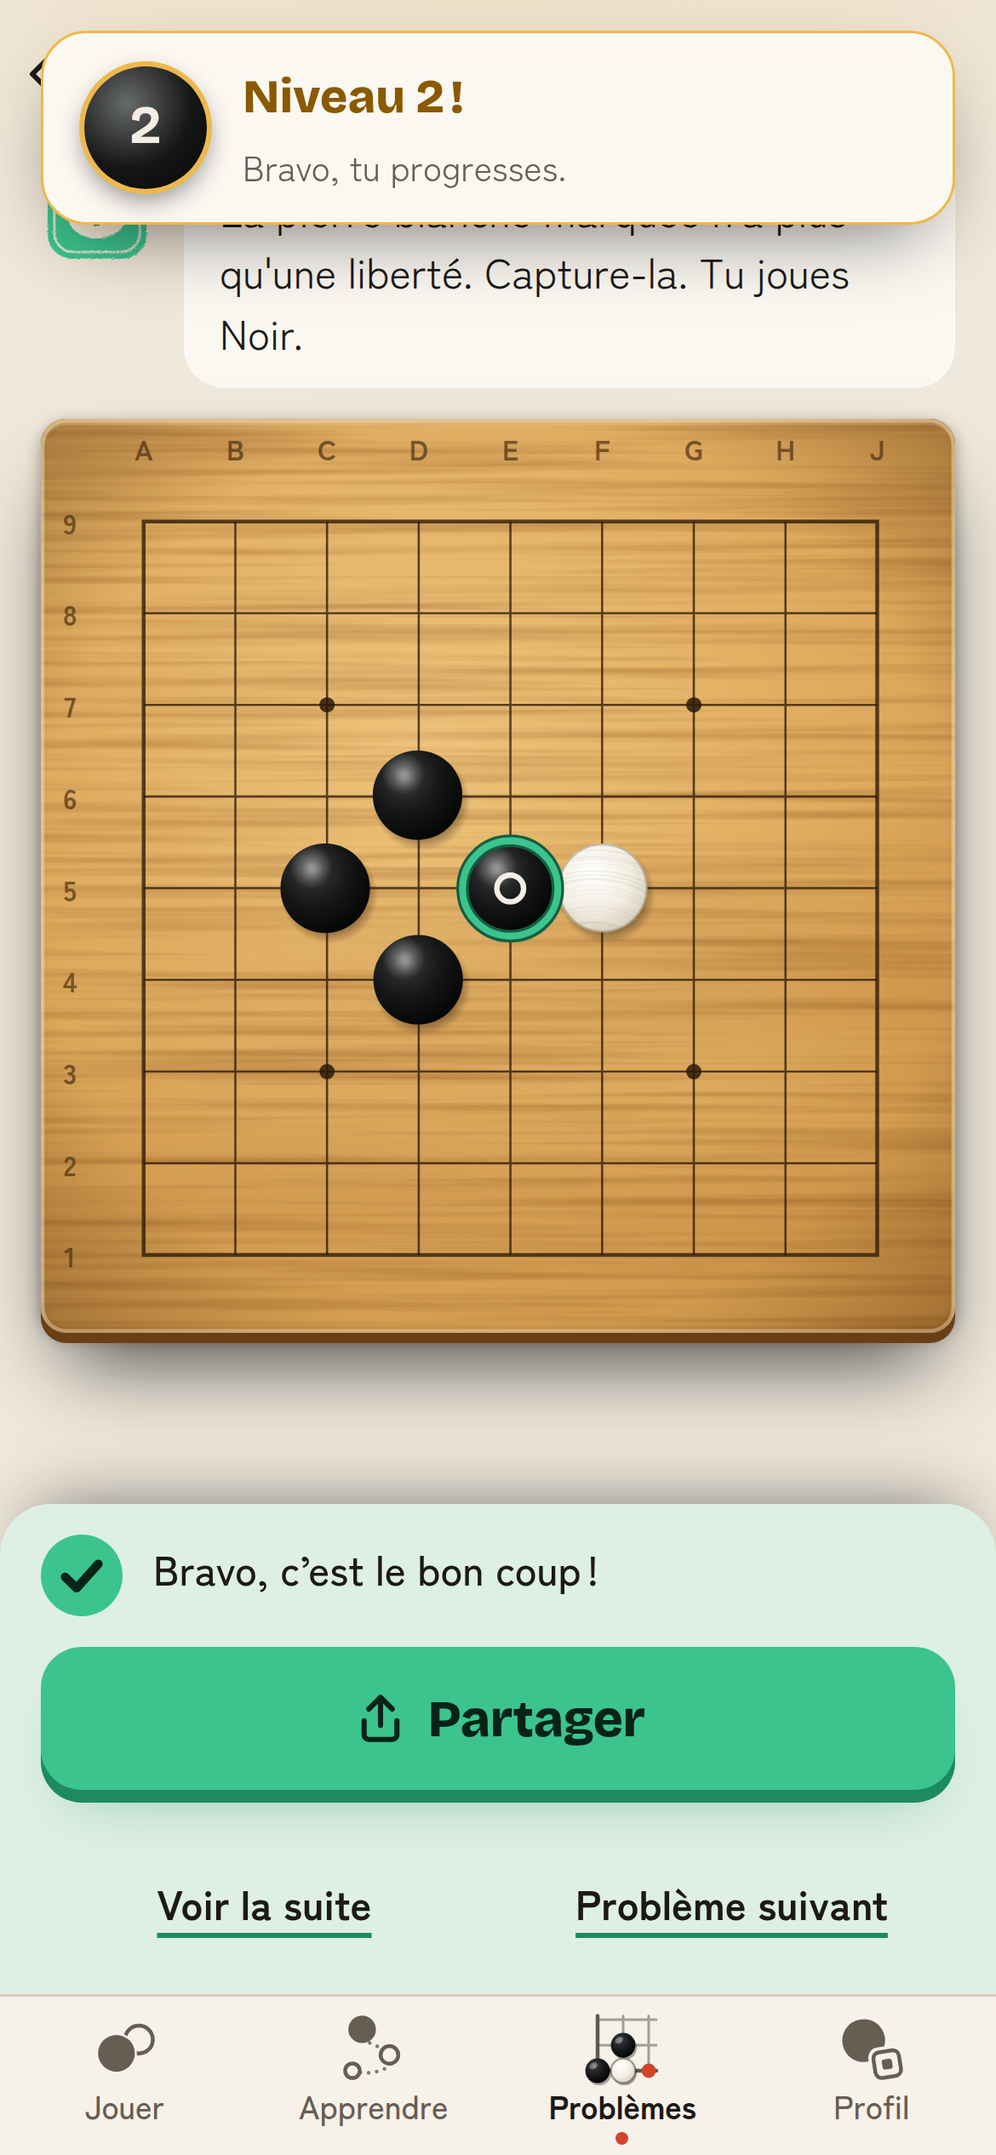
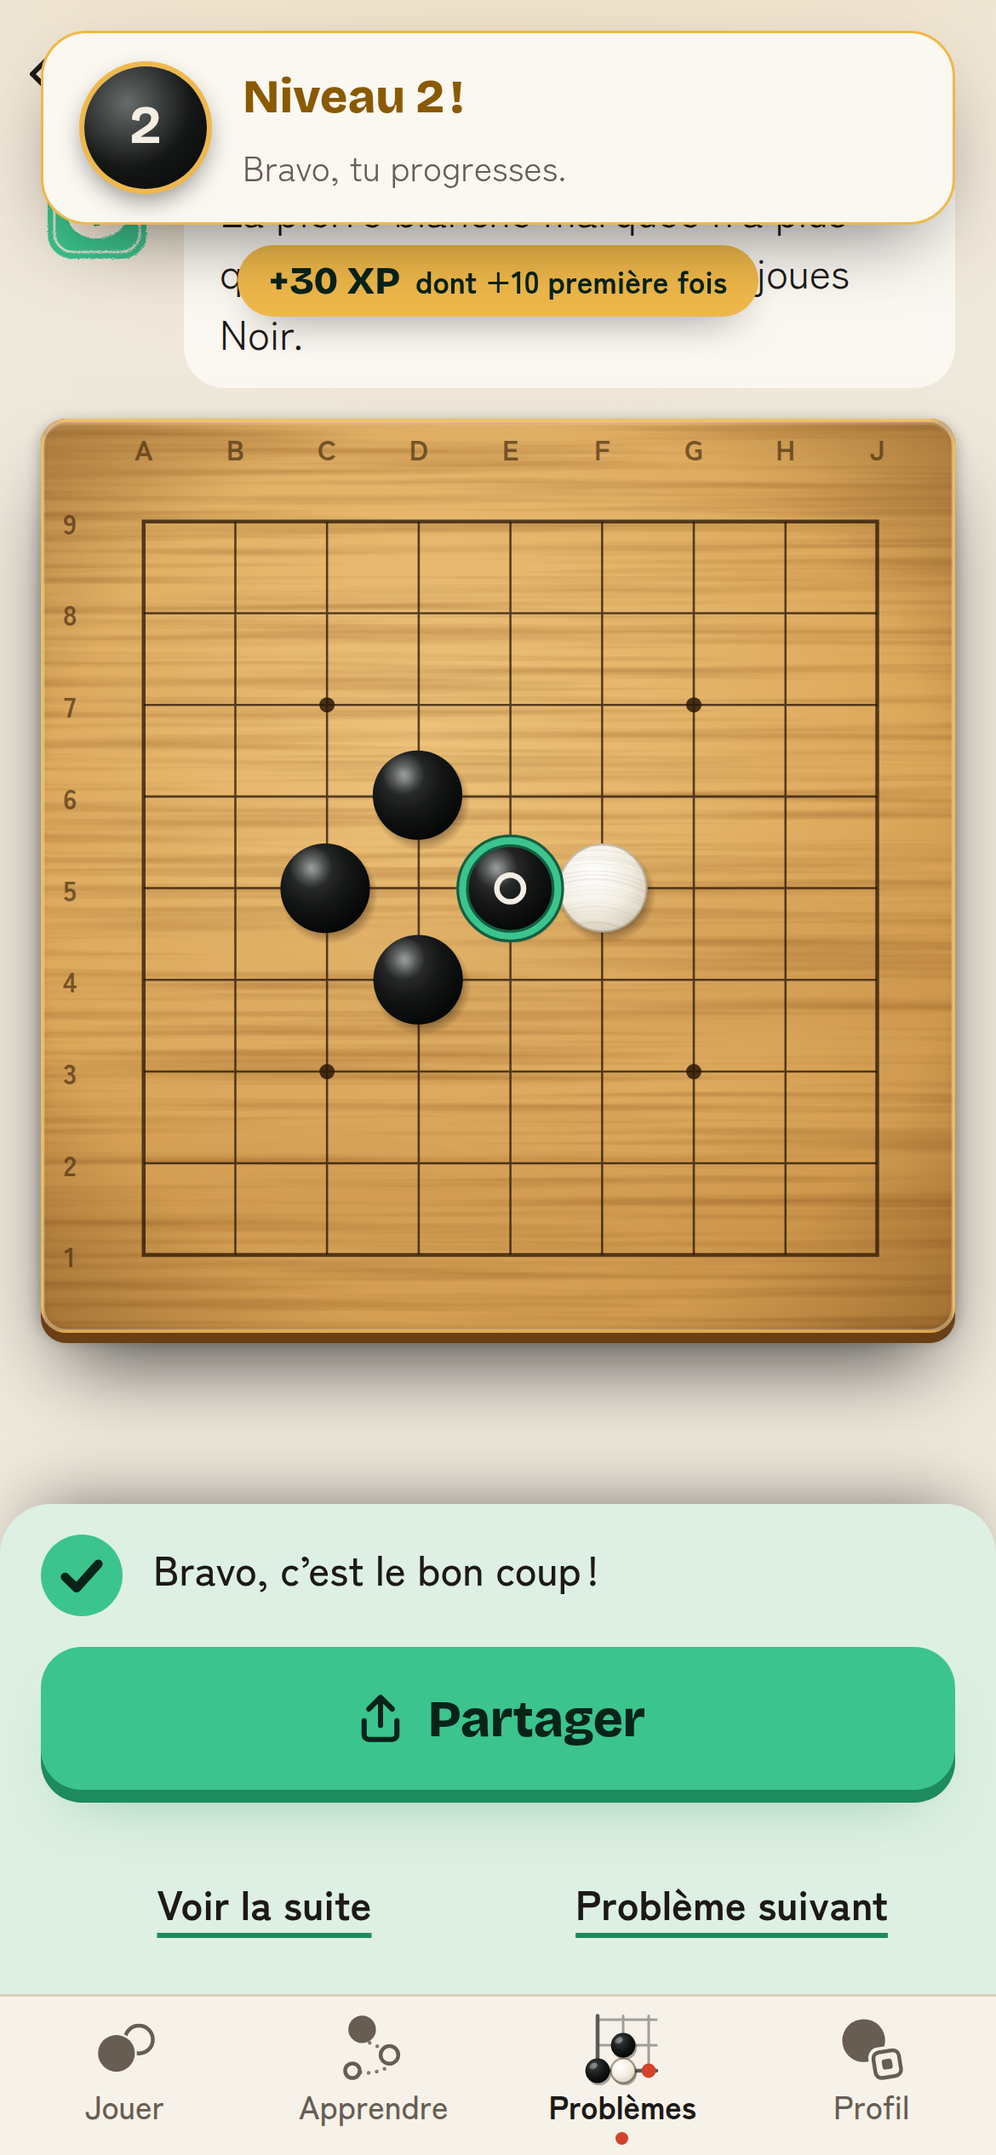
#162 XP visible : pastille « +N XP » et bonus « première fois » (#172)
- src/ui/PastilleXp.tsx : pastille or réutilisable et annonce globale (AnnonceXp),
  abonnée à abonnerXp. Entrée 220 ms (transform et opacité), rien avec les
  mouvements réduits ou les célébrations coupées. Ne capte aucun toucher,
  se range sous la carte « Niveau N ! » quand un niveau est franchi.
- src/app/xp.ts : bonus première partie +20, première leçon +20, premier
  problème +10 (Go du jour compris), une fois par appareil (go.xp.premieres.v1).
  Parcours type partie perdue + leçon + 2 problèmes : 115 XP, niveau 2.
- Tests Vitest (parcours type, ordre quelconque, stockage illisible) et e2e xp.spec
  (pastille, position sous la célébration, capture sombre).
- App.tsx : une ligne de montage. Game, Learn, Puzzles non modifiés.

Claude-Session: https://claude.ai/code/session_01MBh4E5pGWe9HRzjpTV2rVx

Changed region(s): [[0.2462, 0.0936, 0.7692, 0.156]]

diff --git a/src/app/xp.test.ts b/src/app/xp.test.ts
@@ -7,7 +7,7 @@ vi.stubGlobal('localStorage', { getItem: (k: string) => memoire.get(k) ?? null, 
 vi.mock('../data/analytics', async orig => ({ ...(await orig<typeof import('../data/analytics')>()), track: (...a: unknown[]) => track(...a) }));
 
 const xp = await import('./xp');
-const { GAINS, appliquer, cout, seuil, niveauDe, prochaineRecompense, recompenseDuNiveau, gagnerXp, lireXp, envoyerAgregat, abonnerXp, XP_KEY, PLAFOND } = xp;
+const { GAINS, BONUS_PREMIERE, PREMIERES_KEY, lirePremieres, appliquer, cout, seuil, niveauDe, prochaineRecompense, recompenseDuNiveau, gagnerXp, lireXp, envoyerAgregat, abonnerXp, XP_KEY, PLAFOND } = xp;
 
 describe('courbe des niveaux', () => {
   it('le niveau 2 arrive à 100 XP, puis environ +25 % par niveau', () => {
@@ -69,6 +69,7 @@ describe('gagnerXp (appareil)', () => {
 
   it('crédite l’appareil, prévient les écouteurs et envoie niveau_atteint au passage', () => {
     localStorage.setItem(XP_KEY, '95');
+    localStorage.setItem(PREMIERES_KEY, JSON.stringify(['lecon'])); // bonus déjà touché : gain nu
     const vus: number[] = [];
     const fin = abonnerXp(g => vus.push(g.apres));
     gagnerXp('lecon');
@@ -79,6 +80,7 @@ describe('gagnerXp (appareil)', () => {
   });
 
   it('xp_gagne est agrégé : plusieurs gains rapprochés, un seul événement', () => {
+    localStorage.setItem(PREMIERES_KEY, JSON.stringify(['probleme']));
     gagnerXp('probleme');
     gagnerXp('goDuJour');
     expect(track).not.toHaveBeenCalledWith('xp_gagne', expect.anything());
@@ -86,5 +88,66 @@ describe('gagnerXp (appareil)', () => {
     const envois = track.mock.calls.filter(c => c[0] === 'xp_gagne');
     expect(envois).toHaveLength(1);
     expect(envois[0][1]).toMatchObject({ points: 30, gains: 2, sources: 'goDuJour,probleme', xp_total: 30, niveau: 1 });
+  });
+});
+
+// Issue #162 : bonus « première fois » et niveau 2 dans la première session.
+describe('bonus première fois', () => {
+  beforeEach(() => { localStorage.clear(); track.mockClear(); vi.useFakeTimers(); });
+  afterEach(() => { envoyerAgregat(); vi.useRealTimers(); });
+
+  it('appliquer ajoute le bonus de la catégorie seulement pour une première fois', () => {
+    expect(appliquer(0, 'lecon', true)).toMatchObject({ points: 30 + BONUS_PREMIERE.lecon, bonus: BONUS_PREMIERE.lecon });
+    expect(appliquer(0, 'lecon')).toMatchObject({ points: 30, bonus: 0 });
+    // Le Go du jour est un problème, une victoire est une partie.
+    expect(appliquer(0, 'goDuJour', true).bonus).toBe(BONUS_PREMIERE.probleme);
+    expect(appliquer(0, 'victoire', true).bonus).toBe(BONUS_PREMIERE.partie);
+  });
+
+  it('chaque bonus ne se gagne qu’une fois par appareil', () => {
+    expect(gagnerXp('probleme').bonus).toBe(BONUS_PREMIERE.probleme);
+    expect(gagnerXp('goDuJour').bonus).toBe(0);
+    expect(gagnerXp('victoire').bonus).toBe(BONUS_PREMIERE.partie);
+    expect(gagnerXp('partie').bonus).toBe(0);
+    expect([...lirePremieres()].sort()).toEqual(['partie', 'probleme']);
+  });
+
+  it('un stockage illisible ne casse rien : le bonus reste offert', () => {
+    localStorage.setItem(PREMIERES_KEY, '{pas du json');
+    expect(lirePremieres().size).toBe(0);
+    localStorage.setItem(PREMIERES_KEY, JSON.stringify(['partie', 'triche', 3]));
+    expect([...lirePremieres()]).toEqual(['partie']);
+  });
+
+  // Parcours type de l'analyse UX (#154), avec des durées prudentes pour un débutant.
+  const PARCOURS: { source: 'partie' | 'lecon' | 'probleme'; minutes: number }[] = [
+    { source: 'partie', minutes: 5 }, // une partie 9 × 9 contre Pomme, perdue : pas de bonus de victoire
+    { source: 'lecon', minutes: 2.5 },
+    { source: 'probleme', minutes: 1 },
+    { source: 'probleme', minutes: 1 },
+  ];
+
+  it('parcours type (partie perdue, leçon, 2 problèmes) : le niveau 2 arrive avant 10 minutes', () => {
+    let minutes = 0, niveau2: number | null = null;
+    for (const etape of PARCOURS) {
+      minutes += etape.minutes;
+      const g = gagnerXp(etape.source);
+      if (niveau2 === null && g.niveauApres >= 2) niveau2 = minutes;
+    }
+    expect(minutes).toBeLessThanOrEqual(10);
+    expect(niveau2).not.toBeNull();
+    expect(niveau2!).toBeLessThanOrEqual(10);
+    expect(niveauDe(lireXp()).niveau).toBe(2);
+    expect(track).toHaveBeenCalledWith('niveau_atteint', expect.objectContaining({ niveau: 2 }));
+    // Sans les bonus, le même parcours restait sous le niveau 2 (65 XP sur 100) : c'est bien le bonus qui compte.
+    expect(PARCOURS.reduce((s, e) => s + GAINS[e.source], 0)).toBeLessThan(100);
+  });
+
+  it('dans n’importe quel ordre, le parcours type atteint le niveau 2, pas le niveau 3', () => {
+    for (const ordre of [[0, 1, 2, 3], [1, 2, 3, 0], [2, 3, 1, 0], [3, 0, 2, 1]]) {
+      localStorage.clear();
+      for (const i of ordre) gagnerXp(PARCOURS[i].source);
+      expect(niveauDe(lireXp()).niveau).toBe(2);
+    }
   });
 });

diff --git a/src/app/xp.ts b/src/app/xp.ts
@@ -62,12 +62,31 @@ export const niveauRequis = (id: string) => RECOMPENSES.find(r => r.id === id)?.
 export const themeDebloque = (id: string, niveau: number) => niveau >= niveauRequis(id);
 export const recompensesDebloquees = (niveau: number) => RECOMPENSES.filter(r => r.niveau <= niveau);
 
-export interface Gain { source: SourceXp; points: number; avant: number; apres: number; niveauAvant: number; niveauApres: number }
+/**
+ * Bonus « première fois » (issue #162) : progrès offert (Nunes et Drèze, 2006). Sans lui, un parcours type de
+ * 10 minutes (une partie perdue, une leçon, 2 problèmes) donnait 65 XP sur 100. Avec lui : 115, le niveau 2 tombe
+ * pendant la première session. Chaque bonus ne se gagne qu'une fois par appareil.
+ */
+export type Premiere = 'partie' | 'lecon' | 'probleme';
+export const BONUS_PREMIERE: Record<Premiere, number> = { partie: 20, lecon: 20, probleme: 10 };
+/** Le Go du jour est un problème ; une victoire est une partie. */
+export const premiereDe = (source: SourceXp): Premiere =>
+  source === 'goDuJour' ? 'probleme' : source === 'victoire' ? 'partie' : source;
 
-/** Calcul pur d'un gain : jamais négatif. */
-export function appliquer(xp: number, source: SourceXp): Gain {
-  const avant = Math.max(0, Math.floor(xp) || 0), points = GAINS[source], apres = avant + points;
-  return { source, points, avant, apres, niveauAvant: niveauDe(avant).niveau, niveauApres: niveauDe(apres).niveau };
+export interface Gain {
+  source: SourceXp;
+  /** XP gagnés au total, bonus compris. */
+  points: number;
+  /** Part du bonus « première fois » dans `points` (0 sinon). */
+  bonus: number;
+  avant: number; apres: number; niveauAvant: number; niveauApres: number;
+}
+
+/** Calcul pur d'un gain : jamais négatif. `premiere` : c'est la première fois pour cette catégorie. */
+export function appliquer(xp: number, source: SourceXp, premiere = false): Gain {
+  const avant = Math.max(0, Math.floor(xp) || 0), bonus = premiere ? BONUS_PREMIERE[premiereDe(source)] : 0;
+  const points = GAINS[source] + bonus, apres = avant + points;
+  return { source, points, bonus, avant, apres, niveauAvant: niveauDe(avant).niveau, niveauApres: niveauDe(apres).niveau };
 }
 
 // --- Stockage sur l'appareil et diffusion aux écrans ---
@@ -79,6 +98,15 @@ export function lireXp(): number {
     const v = Number(JSON.parse(localStorage.getItem(XP_KEY) || '0'));
     return Number.isFinite(v) && v > 0 ? Math.floor(v) : 0;
   } catch { return 0; }
+}
+
+export const PREMIERES_KEY = 'go.xp.premieres.v1';
+
+export function lirePremieres(): Set<Premiere> {
+  try {
+    const v: unknown = JSON.parse(localStorage.getItem(PREMIERES_KEY) || '[]');
+    return new Set(Array.isArray(v) ? v.filter((p): p is Premiere => typeof p === 'string' && p in BONUS_PREMIERE) : []);
+  } catch { return new Set(); }
 }
 
 type Ecouteur = (g: Gain) => void;
@@ -110,8 +138,12 @@ if (typeof window !== 'undefined') window.addEventListener('pagehide', envoyerAg
  * Envoie `niveau_atteint` à chaque niveau franchi et prévient les écouteurs.
  */
 export function gagnerXp(source: SourceXp): Gain {
-  const g = appliquer(lireXp(), source);
-  try { localStorage.setItem(XP_KEY, JSON.stringify(g.apres)); } catch { /* stockage indisponible : le gain reste affiché pour la session */ }
+  const premieres = lirePremieres(), cat = premiereDe(source);
+  const g = appliquer(lireXp(), source, !premieres.has(cat));
+  try {
+    localStorage.setItem(XP_KEY, JSON.stringify(g.apres));
+    if (g.bonus) localStorage.setItem(PREMIERES_KEY, JSON.stringify([...premieres, cat]));
+  } catch { /* stockage indisponible : le gain reste affiché pour la session */ }
   agregat ??= { points: 0, gains: 0, sources: new Set() };
   agregat.points += g.points; agregat.gains++; agregat.sources.add(source);
   if (minuterie) clearTimeout(minuterie);

diff --git a/e2e/xp.spec.ts b/e2e/xp.spec.ts
@@ -28,10 +28,16 @@ test("un problème réussi fait monter l'XP sur l'accueil", async ({ page }) => 
   await expect(barre).toContainText(/0\s\/\s100\sXP/);
   await expect(barre).toContainText('Kaya clair');
 
-  await resoudreGoDuJour(page); // Go du jour : +20 XP
+  await resoudreGoDuJour(page); // Go du jour : +20 XP, et +10 de bonus pour un premier problème (#162)
+  // Issue #162 : le gain se voit à la fin du problème.
+  const pastille = page.getByTestId('pastille-xp');
+  await expect(pastille).toBeVisible();
+  await expect(pastille).toContainText(/\+30\sXP/);
+  await expect(pastille).toContainText('dont +10 première fois');
+  await page.screenshot({ path: 'docs/design/v2/captures/xp-pastille.png' });
   await nav(page).getByRole('button', { name: 'Jouer' }).click();
-  await expect(barre).toContainText(/20\s\/\s100\sXP/);
-  await expect(page.getByRole('progressbar', { name: 'Niveau 1' })).toHaveAttribute('aria-valuenow', '20');
+  await expect(barre).toContainText(/30\s\/\s100\sXP/);
+  await expect(page.getByRole('progressbar', { name: 'Niveau 1' })).toHaveAttribute('aria-valuenow', '30');
   // L'action principale reste visible sans défiler.
   await expect(page.locator('.cta-sceau')).toBeInViewport();
   await page.screenshot({ path: 'docs/design/v2/captures/xp-accueil.png' });
@@ -39,14 +45,28 @@ test("un problème réussi fait monter l'XP sur l'accueil", async ({ page }) => 
 
 test('un niveau franchi est célébré à la fin du problème', async ({ page }) => {
   await preparer(page, 90);
-  await resoudreGoDuJour(page); // 90 + 20 = 110 : niveau 2
+  await resoudreGoDuJour(page); // 90 + 20 + 10 (premier problème) = 120 : niveau 2
   const fete = page.getByTestId('fete-niveau');
   await expect(fete).toBeVisible();
   await expect(fete).toContainText(/Niveau\s2/);
+  // La pastille se range sous la carte, sans la chevaucher.
+  const [carte, pastille] = await Promise.all([fete.boundingBox(), page.getByTestId('pastille-xp').boundingBox()]);
+  expect(pastille!.y).toBeGreaterThanOrEqual(carte!.y + carte!.height);
   await page.screenshot({ path: 'docs/design/v2/captures/xp-celebration.png' });
   await fete.getByRole('button').click();
   await expect(fete).toHaveCount(0);
 
   await nav(page).getByRole('button', { name: 'Jouer' }).click();
-  await expect(page.getByTestId('barre-niveau')).toContainText(/10\s\/\s125\sXP/);
+  await expect(page.getByTestId('barre-niveau')).toContainText(/20\s\/\s125\sXP/);
+});
+
+test('la pastille or se lit aussi en mode sombre', async ({ page }) => {
+  await preparer(page);
+  await page.emulateMedia({ colorScheme: 'dark', reducedMotion: 'reduce' });
+  await resoudreGoDuJour(page);
+  const pastille = page.getByTestId('pastille-xp');
+  await expect(pastille).toContainText(/\+30\sXP/);
+  // Aucun toucher capté : l'action principale de fin reste libre.
+  await expect(page.locator('.annonce-xp')).toHaveCSS('pointer-events', 'none');
+  await page.screenshot({ path: 'docs/design/v2/captures/xp-pastille-sombre.png' });
 });

diff --git a/src/ui/PastilleXp.tsx b/src/ui/PastilleXp.tsx
@@ -1,0 +1,52 @@
+// Issue #162 : l'XP gagnée se voit. Une pastille or « +N XP » à chaque fin (problème réussi, leçon terminée,
+// fin de partie), avec la part du bonus « première fois ».
+import { useEffect, useRef, useState } from 'react';
+import { abonnerXp } from '../app/xp';
+import { cumuler, DUREE_XP_MS, SORTIE_XP_MS, texteXp, type Affiche } from './gainXp';
+import { mouvementsReduits } from './defilement';
+import './pastille-xp.css';
+
+/**
+ * Pastille or réutilisable (écran de fin, liste…). Purement visuelle : l'annonce vocale est portée par le parent
+ * (`role="status"` d'`AnnonceXp`) ou par le texte lui-même si on la pose dans un écran.
+ * `anime` : entrée courte (glisse de 6 px et fondu). Jamais d'animation avec les mouvements réduits.
+ */
+export function PastilleXp({ points, bonus = 0, anime = false }: { points: number; bonus?: number; anime?: boolean }) {
+  return (
+    <span className={`pastille-xp${anime && !mouvementsReduits() ? ' anime' : ''}`} data-testid="pastille-xp">
+      <b>{texteXp(points)}</b>
+      {bonus > 0 && <small>{`dont +${bonus} première fois`}</small>}
+    </span>
+  );
+}
+
+/**
+ * Annonce globale des gains, montée une seule fois dans l'application : chaque appel à `gagnerXp` (fin de problème,
+ * de leçon, de partie) l'affiche en haut de l'écran, sans toucher aux écrans. Elle ne capte aucun toucher
+ * (`pointer-events: none`) : l'action principale de fin reste libre. Si un niveau est franchi, elle se place sous
+ * la carte de célébration (`FeteNiveau`).
+ */
+export function AnnonceXp({ celebrer }: { celebrer: boolean }) {
+  const [affiche, setAffiche] = useState<Affiche | null>(null);
+  const [sortie, setSortie] = useState(false);
+  const minuterie = useRef<number | undefined>(undefined);
+  useEffect(() => abonnerXp(g => {
+    setAffiche(a => cumuler(a, g));
+    setSortie(false);
+    window.clearTimeout(minuterie.current);
+    const reduit = !celebrer || mouvementsReduits();
+    minuterie.current = window.setTimeout(() => {
+      if (reduit) { setAffiche(null); return; }
+      setSortie(true);
+      minuterie.current = window.setTimeout(() => { setAffiche(null); setSortie(false); }, SORTIE_XP_MS);
+    }, DUREE_XP_MS);
+  }), [celebrer]);
+  useEffect(() => () => window.clearTimeout(minuterie.current), []);
+  return (
+    <div className={`annonce-xp${affiche?.niveauFranchi ? ' sous-fete' : ''}${sortie ? ' sortie' : ''}`} role="status" aria-live="polite">
+      {affiche && (
+        <PastilleXp key={affiche.points} points={affiche.points} bonus={affiche.bonus} anime={celebrer} />
+      )}
+    </div>
+  );
+}

diff --git a/src/ui/PastilleXp.test.tsx b/src/ui/PastilleXp.test.tsx
@@ -1,0 +1,39 @@
+import { renderToStaticMarkup } from 'react-dom/server';
+import { PastilleXp } from './PastilleXp';
+import { cumuler, texteXp } from './gainXp';
+import type { Gain } from '../app/xp';
+
+// Issue #162 : pastille « +N XP ». Rendu statique (node, sans DOM) : `window` minimal pour `matchMedia`.
+function avecMouvements(reduit: boolean) {
+  vi.stubGlobal('window', { matchMedia: (q: string) => ({ matches: reduit && q.includes('prefers-reduced-motion: reduce') }) });
+}
+afterEach(() => { vi.unstubAllGlobals(); });
+
+const gain = (p: Partial<Gain>): Gain => ({ source: 'probleme', points: 10, bonus: 0, avant: 0, apres: 10, niveauAvant: 1, niveauApres: 1, ...p });
+
+describe('PastilleXp', () => {
+  it('affiche « +N XP » avec une espace insécable et la part du bonus', () => {
+    avecMouvements(false);
+    expect(texteXp(45)).toBe('+45\u00A0XP');
+    const html = renderToStaticMarkup(<PastilleXp points={45} bonus={30} anime />);
+    expect(html).toContain('+45\u00A0XP');
+    expect(html).toContain('dont +30 première fois');
+    expect(html).toContain('pastille-xp anime');
+  });
+
+  it('sans bonus, une seule ligne', () => {
+    avecMouvements(false);
+    expect(renderToStaticMarkup(<PastilleXp points={10} />)).not.toContain('première fois');
+  });
+
+  it('aucune animation avec les mouvements réduits', () => {
+    avecMouvements(true);
+    expect(renderToStaticMarkup(<PastilleXp points={10} anime />)).not.toContain('anime');
+  });
+
+  it('cumule deux gains rapprochés et retient un niveau franchi', () => {
+    const a = cumuler(null, gain({ points: 30, bonus: 20 }));
+    const b = cumuler(a, gain({ points: 10, niveauAvant: 1, niveauApres: 2 }));
+    expect(b).toEqual({ points: 40, bonus: 20, niveauFranchi: true });
+  });
+});

diff --git a/src/ui/pastille-xp.css b/src/ui/pastille-xp.css
@@ -1,0 +1,22 @@
+/* Issue #162 : pastille or « +N XP ». Discrète (une ligne, en haut), mais sur l'or de la récompense. */
+
+.pastille-xp { display: inline-flex; align-items: baseline; gap: 6px; padding: 5px 12px; border-radius: 999px;
+  background: var(--or); color: var(--encre-jade); box-shadow: 0 6px 18px -8px rgba(0, 0, 0, .55);
+  font-variant-numeric: tabular-nums; white-space: nowrap; }
+.pastille-xp b { font-family: var(--font-titre); font-weight: var(--fw-titre); font-size: .95rem; line-height: 1.2; }
+.pastille-xp small { font-size: .75rem; font-weight: 600; }
+
+/* Conteneur global : en haut, centré, sous l'encoche. Ne capte aucun toucher. */
+.annonce-xp { position: fixed; z-index: 59; left: 0; right: 0; top: calc(12px + env(safe-area-inset-top, 0px));
+  display: flex; justify-content: center; padding: 0 16px; pointer-events: none; }
+/* Un niveau franchi : la carte de célébration (≈ 72 px) prend le haut, la pastille se range dessous. */
+.annonce-xp.sous-fete { top: calc(96px + env(safe-area-inset-top, 0px)); }
+
+/* Entrée : glisse de 6 px vers le bas et fondu, 220 ms, sortie rapide (160 ms), transform et opacité seulement. */
+.pastille-xp.anime { animation: pastille-xp-entre .22s cubic-bezier(.23, 1, .32, 1) both; }
+.annonce-xp.sortie .pastille-xp { animation: pastille-xp-sort .16s cubic-bezier(.4, 0, 1, 1) both; }
+@keyframes pastille-xp-entre { from { opacity: 0; transform: translateY(-6px); } }
+@keyframes pastille-xp-sort { to { opacity: 0; transform: translateY(-4px); } }
+@media (prefers-reduced-motion: reduce) {
+  .pastille-xp.anime, .annonce-xp.sortie .pastille-xp { animation: none; }
+}

diff --git a/src/ui/gainXp.ts b/src/ui/gainXp.ts
@@ -1,0 +1,19 @@
+// Issue #162 : logique de la pastille « +N XP » (séparée du composant pour le rechargement à chaud).
+import type { Gain } from '../app/xp';
+
+/** Libellé lu et affiché : « +45 XP », avec une espace insécable. */
+export const texteXp = (points: number) => `+${points}\u00A0XP`;
+
+/** Durée d'affichage : le temps de lire deux mots, sans gêner l'action suivante. */
+export const DUREE_XP_MS = 2400;
+export const SORTIE_XP_MS = 160;
+
+export interface Affiche { points: number; bonus: number; niveauFranchi: boolean }
+
+/** Cumule les gains qui tombent pendant qu'une pastille est déjà affichée (ex. deux gains à la même fin). */
+export function cumuler(actuel: Affiche | null, g: Gain): Affiche {
+  const franchi = g.niveauApres > g.niveauAvant;
+  return actuel
+    ? { points: actuel.points + g.points, bonus: actuel.bonus + g.bonus, niveauFranchi: actuel.niveauFranchi || franchi }
+    : { points: g.points, bonus: g.bonus, niveauFranchi: franchi };
+}

diff --git a/src/app/App.tsx b/src/app/App.tsx
@@ -29,6 +29,7 @@ import { messageGel } from './gel';
 import { BarreNav, type Onglet } from '../ui/IconesNav';
 import { BarreNiveau, FeteNiveau } from '../ui/Niveau';
 import { annonceKomi, equilibrage, KOMI_NORMAL, partiesOrdi, type Equilibrage } from './equilibrage';
+import { AnnonceXp } from '../ui/PastilleXp';
 
 const PROBLEMES_LOCAUX = parsePuzzles(ALL_PUZZLES);
 
@@ -214,6 +215,7 @@ export function App() {
         {screen}
       </main>
       <FeteNiveau celebrer={settings.celebrations} />
+      <AnnonceXp celebrer={settings.celebrations} />
       {/* Pendant une partie, comme chez chess.com : pas de barre de navigation, « ‹ » ramène à l'accueil. */}
       {!enPartie && <BarreNav actif={tab} onChoisir={go} />}
       <ConsentModal visible={fenetreVisible({ consent, ignoree: accordIgnore, enPartie: enPartie || (tab === 'problemes' && duJourOuvert), surConditions: tab === 'profil' && vueProfil === 'conditions' })}
